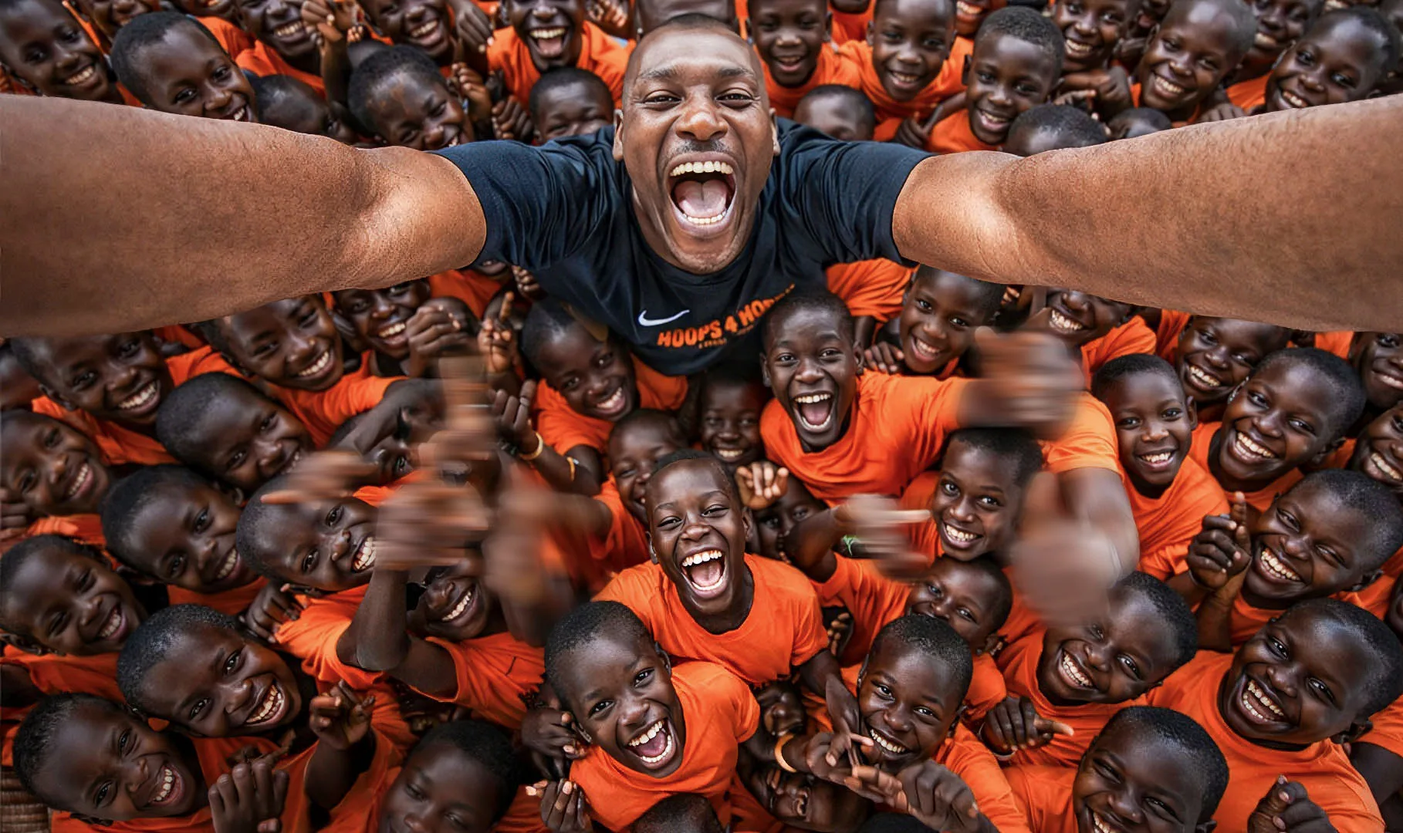
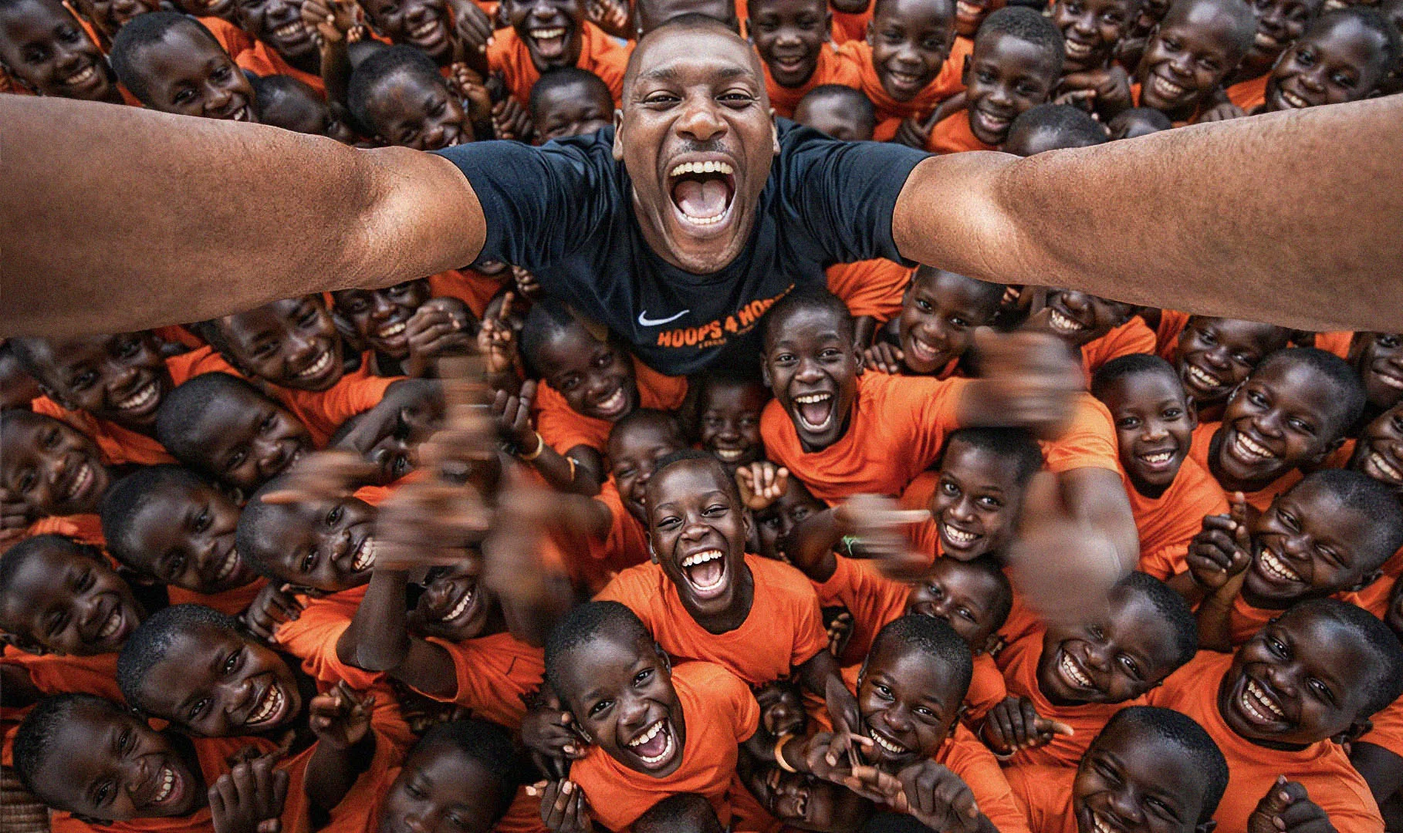
asset: update hero image + mobile viewport zoom-out (75vh, show more children)

diff --git a/index.html b/index.html
@@ -158,6 +158,16 @@
             overflow: hidden;
         }
 
+        @media (max-width: 767px) {
+            .hero {
+                min-height: 75vh;
+            }
+
+            .hero-bg {
+                background-position: center 25%;
+            }
+        }
+
         @media (min-width: 768px) {
             .hero {
                 padding-bottom: 80px;
